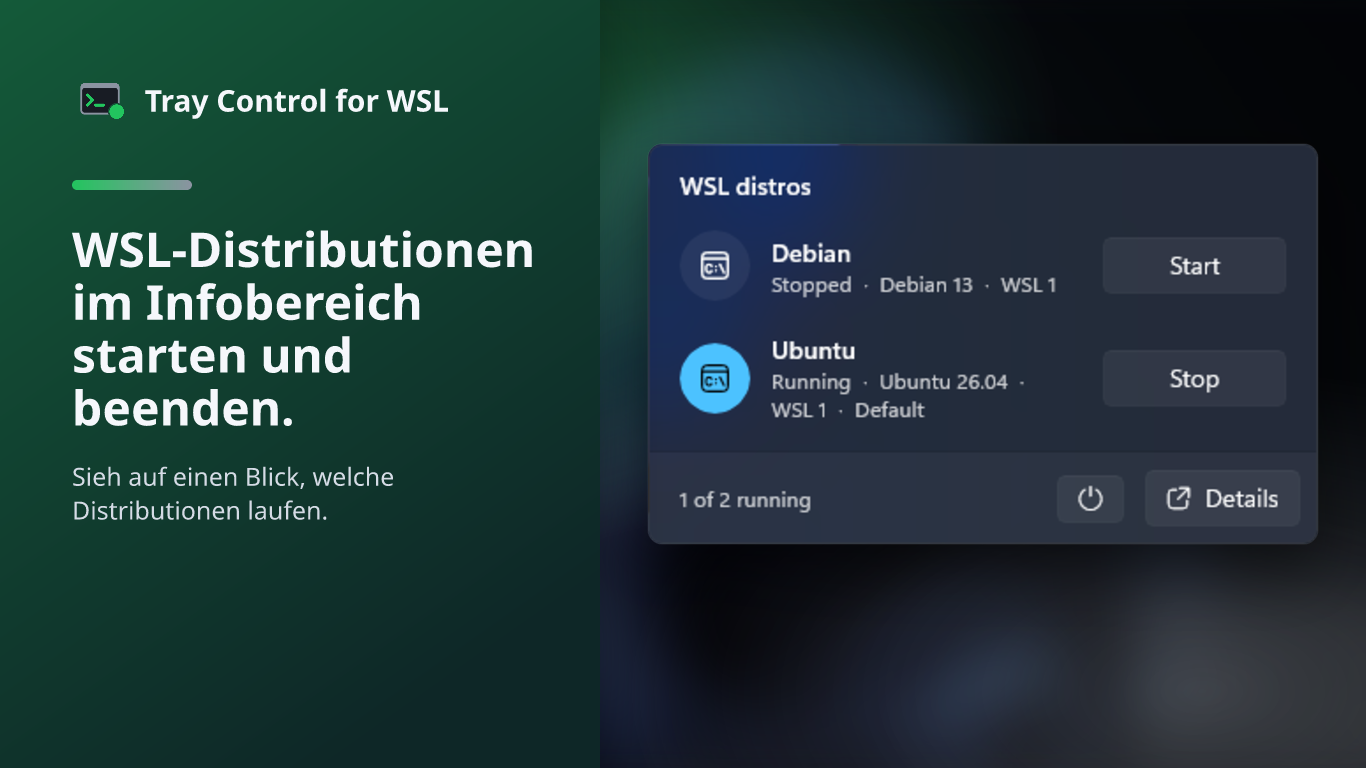
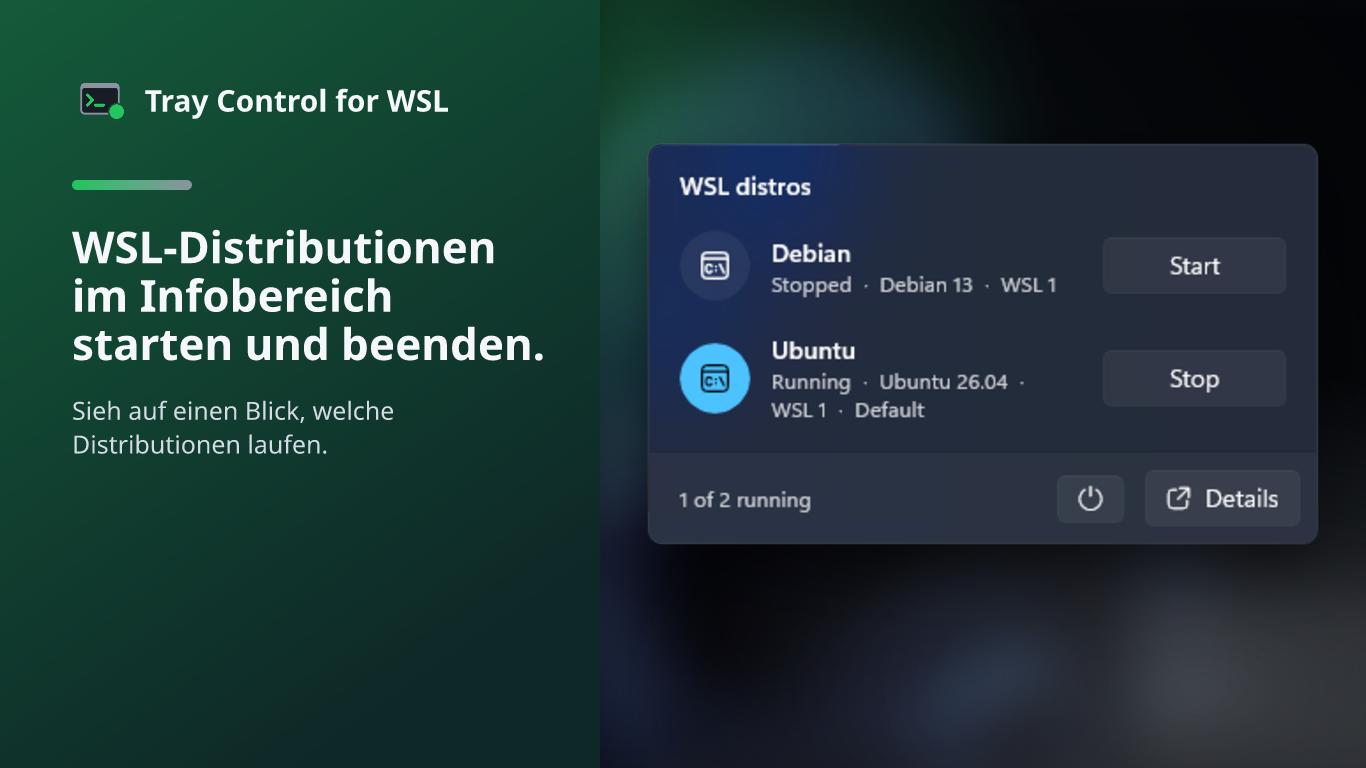
Prepare localized 200% Store captures; kit v2.10.0
winui-app-kit v2.10.0 (submodule and workflow tags), with check-kit-ref in validate. devkit v0.30.0 re-renders the de-DE, es-ES, fr-FR and pt-BR heroes, still from the English capture until the localized captures land.

The capture script now lives in store-assets/capture/shots.ps1 instead of an untracked folder: it takes -Locale and -DisplayScale (200 by default), sets the app's language in its settings, and finds every control by automation ID. The flyout header, the Details button, each distro's row, power button and navigation item, and Overview get automation IDs for it. The distros' names are product names, so there is no per-locale sample data. Not yet run on the VM.

Changed region(s): [[0.0307, 0.2812, 0.3997, 0.6875]]

diff --git a/WslMonitor/Windows/DistroFlyout.xaml b/WslMonitor/Windows/DistroFlyout.xaml
@@ -13,7 +13,7 @@
 
         <!-- Header -->
         <Grid Padding="18,14,14,8">
-            <TextBlock l10n:Localize.Text="flyout.header" Style="{StaticResource BodyStrongTextBlockStyle}" VerticalAlignment="Center" />
+            <TextBlock l10n:Localize.Text="flyout.header" AutomationProperties.AutomationId="FlyoutHeader" Style="{StaticResource BodyStrongTextBlockStyle}" VerticalAlignment="Center" />
         </Grid>
 
         <!-- One row per distro, or an empty/unavailable message (built in code) -->
@@ -32,7 +32,7 @@
                        Foreground="{ThemeResource TextFillColorSecondaryBrush}" TextTrimming="CharacterEllipsis" />
             <!-- Shut down WSL (built in code: it follows the service's state) -->
             <ContentPresenter x:Name="ShutdownHost" Grid.Column="1" VerticalAlignment="Center" />
-            <Button Grid.Column="2" Click="Details_Click" l10n:Localize.Name="flyout.details" l10n:Localize.ToolTip="flyout.details-tip">
+            <Button Grid.Column="2" AutomationProperties.AutomationId="DetailsButton" Click="Details_Click" l10n:Localize.Name="flyout.details" l10n:Localize.ToolTip="flyout.details-tip">
                 <StackPanel Style="{StaticResource IconLabelStyle}">
                     <FontIcon Glyph="&#xE8A7;" Style="{StaticResource ButtonGlyphStyle}" />
                     <TextBlock l10n:Localize.Text="flyout.details" />

diff --git a/WslMonitor/DetailsWindow.xaml.cs b/WslMonitor/DetailsWindow.xaml.cs
@@ -1,5 +1,6 @@
 using Microsoft.UI.Windowing;
 using Microsoft.UI.Xaml;
+using Microsoft.UI.Xaml.Automation;
 using Microsoft.UI.Xaml.Controls;
 using WinUIAppKit.Localization;
 using WinUIAppKit.Pages;
@@ -129,12 +130,16 @@ public sealed partial class DetailsWindow : Window
         _menuSignature = MenuSignature();
 
         Shell.MenuItems.Clear();
-        Shell.MenuItems.Add(new NavigationViewItem
+        // Each item gets a language-neutral automation id for UI automation (the Store capture script):
+        // its label is translated, and a distro's carries a translated "(default)" suffix.
+        var overview = new NavigationViewItem
         {
             Content = UiText.Get("nav.overview"),
             Tag = OverviewTag,
             Icon = new FontIcon { Glyph = "\uE80F" },
-        });
+        };
+        AutomationProperties.SetAutomationId(overview, "OverviewNavItem");
+        Shell.MenuItems.Add(overview);
         if (distros.Count == 0)
         {
             return;
@@ -143,12 +148,14 @@ public sealed partial class DetailsWindow : Window
         Shell.MenuItems.Add(new NavigationViewItemHeader { Content = UiText.Get("nav.distros") });
         foreach (var d in distros)
         {
-            Shell.MenuItems.Add(new NavigationViewItem
+            var item = new NavigationViewItem
             {
                 Content = d.IsDefault ? UiText.Format("nav.default-suffix", ("name", d.Name)) : d.Name,
                 Tag = DistroTagPrefix + d.Name,
                 Icon = new FontIcon { Glyph = DistroVisuals.Glyph },
-            });
+            };
+            AutomationProperties.SetAutomationId(item, "DistroNavItem_" + d.Name);
+            Shell.MenuItems.Add(item);
         }
     }
 

diff --git a/WslMonitor/Controls/DistroRow.cs b/WslMonitor/Controls/DistroRow.cs
@@ -51,6 +51,7 @@ public static class DistroRow
         ToolTipService.SetToolTip(open, UiText.Format("row.details-tip", ("name", d.Name)));
         // The content is a badge and text in a grid, which gives the button no accessible name of its own.
         AutomationProperties.SetName(open, d.Name);
+        AutomationProperties.SetAutomationId(open, "DistroRow_" + d.Name);
         open.Click += (_, _) => onOpen();
 
         var power = new DistroPowerButton(d, service) { Margin = new Thickness(0, 0, 10, 0) };

diff --git a/WslMonitor/Controls/DistroPowerButton.cs b/WslMonitor/Controls/DistroPowerButton.cs
@@ -28,6 +28,10 @@ public sealed partial class DistroPowerButton : Button
         MinWidth = 104;
         VerticalAlignment = VerticalAlignment.Center;
         Click += OnClick;
+
+        // A language-neutral handle for UI automation (the Store capture script); the label changes
+        // with the state and the language, the distro's name does not.
+        AutomationProperties.SetAutomationId(this, "DistroPower_" + distro.Name);
         Render();
     }
 

diff --git a/store-assets/README.md b/store-assets/README.md
@@ -4,19 +4,36 @@
 | --- | --- |
 | `microsoft/listings.json`, `listings.md` | The Store listing text in every locale, and the claims it makes (see `listings.md`) |
 | `manifest.json` | Every Store screenshot in listing order: its raw source, theme, crop, en-US caption and alt text (LIST-8) |
+| `capture/shots.ps1` | The capture script, run in the test VM once per listing locale |
 | `raw/microsoft/` | The raw captures: the test VM's whole desktop, each with the `.json` sidecar the capture helper writes |
 | `microsoft/screenshots/` | The listing screenshots, rendered from the raw captures; the generated first screenshot is in a folder per locale (`<locale>/00-hero-dark.png`) |
 | `microsoft/text-free/` | The hero without its text, for the website (`npm run hero` writes it) |
 
 ## Screenshots
 
-They are real captures of the installed app on the Windows 11 test VM with stock Ubuntu and Debian distros (WSL 1, since the test VM can't run WSL 2) installed under `C:\WSL`, so no personal distro names, user names or paths show. Every capture is dark, at 100% scale, with window effects on and the dark wallpaper. English captures serve every listing; the hero's text is translated. A new or changed screenshot is approved by the maintainer before it is committed.
+They are real captures of the installed app on the Windows 11 test VM with stock Ubuntu and Debian distros (WSL 1, since the test VM can't run WSL 2) installed under `C:\WSL`, so no personal distro names, user names or paths show. Every capture is dark, with window effects on and the dark wallpaper. The current captures are English, at 100% scale, and serve every listing; the hero's text is translated. They are being replaced by localized captures at 200% (below). A new or changed screenshot is approved by the maintainer before it is committed.
 
 - **Render** with `npm run shots:render` (winui-app-kit's renderer; its README has the rules): each capture in `raw/microsoft/` is cropped to 1366 x 768 and written to `microsoft/screenshots/`. Recaptioning needs no recapture; a new look does.
 - **Check** with `npm run check:screenshots` (part of `npm run validate`): every capture has its sidecar and follows the capture rules above, every screenshot is the renderer's output, and the captions match the en-US `screenshotCaptions` in `listings.json`.
 - **Sync** with the next Store release: the Store workflow's `screenshots` input uploads every locale's set, its hero first, with that locale's captions from `listings.json`.
 
 A UI change that shows in a screenshot means recapturing that shot.
+
+## Localized captures
+
+Every screenshot is moving to a capture per listing locale (en-US, es-ES, fr-FR, de-DE, zh-CN, pt-BR and ja-JP; en-CA and fr-CA reuse en-US's and fr-FR's through `copyFrom`), so Windows and the app show the listing's language, at 200% display scale (3840 x 2160 for the 1920 x 1080 desktop). The kit's renderer crops a 200% capture in logical pixels and halves it to 1366 x 768. Status: the script is not yet run on the VM; the en-US and one other locale go to the maintainer for approval, the rest must pass the checks.
+
+- **Sample data:** the distros are stock Ubuntu and Debian, whose names, versions (Ubuntu 26.04, Debian 13) and location (`C:\WSL\Ubuntu`) are product names and paths, the same in every language, so there is no per-locale fixture. The installed WSL's version details on the Overview page come from WSL itself.
+- **What the app does not translate:** nothing in these screens; every catalog string has its translation in all six languages (a few, such as Details, Terminal and GB, are the same word in some languages).
+- **The app's language** is set by the script in `settings.json` (`Language`), so it never depends on Windows' language list.
+- **No translated text in the script:** `capture/shots.ps1` finds everything by automation ID (`FlyoutHeader`, `DistroPower_<distro>`, `DetailsButton`, `DistroNavItem_<distro>`) or the tray tooltip's app name, which is not translated.
+
+For each locale, in a throwaway session:
+
+1. **Language:** on the base disk, install the language pack once (`Install-Language <locale> -ExcludeFeatures`, about 26 minutes, then `guest-slim.ps1 -Step Clean`), set Windows' display language, input and format to the locale (`Set-WinUILanguageOverride`, `Set-WinUserLanguageList`, `Set-Culture`), then cold-cycle the VM (`vm/remote.sh down`, then a `-snapshot` start: about 80 seconds to a desktop in that language). Set it back to en-US the same way when done.
+2. **Desktop:** in the throwaway session (an uncommitted compose override adds `-snapshot`, which must show in QEMU's command line before Windows boots, and a 3840 x 2160 display), install WSL 1 with the two distros under `C:\WSL` and the Release dev package, run `screenshot-desktop.ps1 -Mode Prepare`, then set the display to 200% through the display API (DisplaySwitchr's `store-assets/capture/set-display-scale.ps1` does this in any language).
+3. **Capture:** copy `capture/shots.ps1` to the guest and run it with `-Locale <locale>`. Copy each `.png` and `.json` from `C:\apptest\out\<locale>\` into `raw/microsoft/<locale>/` under the manifest's names.
+4. **Render and check** with `npm run shots:render`, `npm run hero` and `npm run validate`: the check fails for any listing locale without its capture, so a locale is done only when all of its captures are committed.
 
 ## The first screenshot: a generated hero
 
